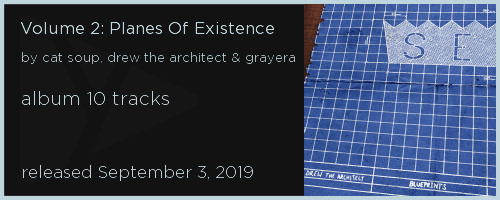
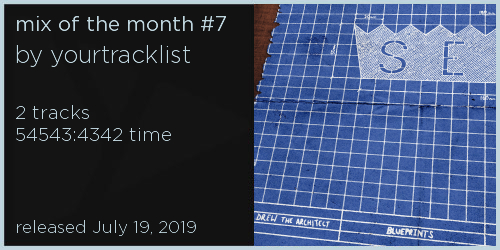
mix word checking added

diff --git a/routes/mix.js b/routes/mix.js
@@ -25,6 +25,7 @@ const upload = multer({ storage });
 router.post('/', upload.single('cover'), async (req,res) => {
     const { mix_name, mix_duration, mix_tracks, date_rel, public_name} = req.body;
 
+    console.log(mix_name.length)
 
     Jimp.read('templateImage/template_mix.jpg', (err, template) => {
         Jimp.read('uploads/cover.jpg', (err, image) => {
@@ -32,7 +33,13 @@ router.post('/', upload.single('cover'), async (req,res) => {
             image.cover(242, 242) // resize
             template.composite(image, 254, 4 ).write('result/cart.jpg'); 
             
-                Jimp.loadFont('fontsForCart/gotham_bold_24.fnt').then(font => {
+                Jimp.loadFont(
+                    mix_name.length < 18 ? 'fontsForCart/gotham_bold_24.fnt' : 
+                    mix_name.length < 21 ? 'fontsForCart/gotham_bold_21.fnt' : 
+                    mix_name.length < 24 ? 'fontsForCart/gotham_bold_19.fnt' :
+                    mix_name.length < 26 ? 'fontsForCart/gotham_bold_17.fnt' :
+                    mix_name.length < 29 ? 'fontsForCart/gotham_bold_15.fnt' : 
+                    'fontsForCart/gotham_bold_13.fnt' ).then(font => {
                     // load font from .fnt file 
                     template
                     .print(font, 15, 15, mix_name)
